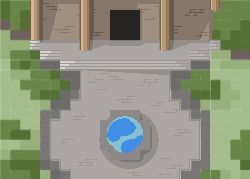
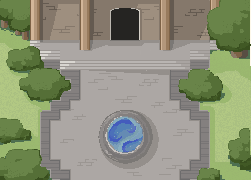
#7 #5

diff --git a/greekIntellij/src/main/java/Room.java b/greekIntellij/src/main/java/Room.java
@@ -2,6 +2,7 @@ import java.util.ArrayList;
 import processing.core.PImage;
 import processing.core.PApplet;
 
+
 import static processing.core.PConstants.CORNERS;
 
 public class Room {
@@ -12,25 +13,105 @@ public class Room {
     String id;
 
     //List of spaces in the room
-    ArrayList<Space> spaces;
+    ArrayList<Space> spaces = new ArrayList<Space>();
 
     //Background image of the room
     PImage background;
+    PImage tileMap;
 
-    public Room(String id, String ImageURL, PApplet core){
+    int widthInTiles = 27;
+    int heightInTiles = 20;
+
+
+    public Room(String id, String ImageURL,String tileMapURL, PApplet core){
         this.id = id;
         this.core = core;
+        setTileMap(tileMapURL);
         setBackground(ImageURL);
+        fillSpaces();
     }
 
     public void setBackground(String ImageURL){
         this.background = core.loadImage("Images/Backgrounds/"+ImageURL);
     }
+    public void setTileMap(String tileMapURL){this.tileMap =core.loadImage("Images/TileMaps/"+tileMapURL);}
 
     public void drawRoom(){
         core.imageMode(CORNERS);
         core.image(background,0,0,core.width,core.height);
+
     }
+
+
+
+    public void fillSpaces(){
+        int black = -16777216;
+        int red = -65536;
+        int white = -1;
+        int blue = -16776961;
+
+
+        for (int i=0; i<widthInTiles*heightInTiles; i++){
+            int c =tileMap.get(xFromId(i),yFromId(i));
+
+
+            System.out.println(c);
+
+            if(c == black) {
+                spaces.add(new Space(spaces.size(), true, false));
+            }
+            else {
+                spaces.add(new Space(spaces.size(), false, false));
+
+            }
+        }
+        evalSpaces();
+    }
+
+    public void evalSpaces(){
+        for (int i=0; i<widthInTiles*heightInTiles; i++){
+            System.out.println(spaces.get(i).getSolid());
+        }
+    }
+
+
+
+
+
+    public int xFromId(int id){
+        return id%widthInTiles;
+    }
+
+    public int yFromId(float id){
+        return core.floor(id/widthInTiles);
+    }
+
+    public int coordToId(int x, int y){
+        return (y+1)*widthInTiles+(x+1);
+    }
+
+    public boolean SpaceUpSolid(int x, int y){
+        int tile = coordToId(x,y)-widthInTiles;
+        return spaces.get(tile).getSolid();
+    }
+
+    public boolean SpaceDownSolid(int x, int y){
+        int tile = coordToId(x,y)+widthInTiles;
+        return spaces.get(tile).getSolid();
+
+    }
+
+    public boolean SpaceLeftSolid(int x, int y){
+        int tile = coordToId(x,y)-1;
+        return spaces.get(tile).getSolid();
+    }
+
+    public boolean SpaceRightSolid(int x, int y){
+        int tile = coordToId(x,y)+1;
+        return spaces.get(tile).getSolid();
+    }
+
+
 
 }
 

diff --git a/greekIntellij/src/main/java/Player.java b/greekIntellij/src/main/java/Player.java
@@ -19,9 +19,9 @@ public class Player {
     PImage sprite;
     Main main;
 
-    public Player(int x,int y,String spritePath, PApplet core, Main main){
-        this.x = x;
-        this.y = y;
+    public Player(float x,float y,String spritePath, PApplet core, Main main){
+        this.x =  x;
+        this.y =  y;
         this.core = core;
         setSprite(spritePath);
         this.main = main;
@@ -29,16 +29,17 @@ public class Player {
     }
 
     public void movement(){
-        if(moveUp){
+        if(y>0 &&moveUp&&!main.r1.SpaceUpSolid((int) x, (int) y)){
+
             y--;
         }
-        if(moveDown){
+        if(y<28 && moveDown&&!main.r1.SpaceDownSolid((int) x, (int) y)){
             y++;
         }
-        if(moveLeft){
+        if(moveLeft && !main.r1.SpaceLeftSolid((int) x, (int) y)){
             x--;
         }
-        if(moveRight){
+        if(moveRight && !main.r1.SpaceRightSolid((int) x, (int) y)){
             x++;
         }
     }
@@ -49,8 +50,8 @@ public class Player {
     public void drawPlayer(){
         movement();
         core.imageMode(CORNERS);
-        core.image(sprite,x*(core.width/25),y*(core.height/18),x*(core.width/25)+(core.width/25),y*(core.height/18)+(core.height/9));
-        //System.out.println(x+" "+y);
+        core.image(sprite,x*(core.width/25),(y+1)*(core.height/18),x*(core.width/25)+(core.width/25),((y+1)*(core.height/18))-(core.height/9));
+        System.out.println(x+" "+y);
     }
 
 }

diff --git a/greekIntellij/src/main/java/Main.java b/greekIntellij/src/main/java/Main.java
@@ -23,14 +23,15 @@ public class Main extends PApplet {
     }
 
     public void settings(){
-        size(625,450);
+        size(625*3,450*3);
+
 
 
     }
 
     public void setup(){
-
-        r1 = new Room("1","g5.png",this);
+        //frameRate(20);
+        r1 = new Room("1","g5.png","g5.png",this);
         p1 = new Player(10,10,"Player1.png",this,this);
         q1 = new Quiz(1,this,this);
 
@@ -82,11 +83,16 @@ public class Main extends PApplet {
     }
 
     public void loadRooms(){
-        File folder = new File("Images/Backgrounds");
-        File[] listOfFiles = folder.listFiles();
-        assert listOfFiles != null;
-        for(int i = 0; i<listOfFiles.length; i++){
-            allRooms.add(new Room("r"+i,listOfFiles[i].getName(),this));
+        File backgroundFolder = new File("Images/Backgrounds");
+        File[] listOfBackgrounds = backgroundFolder.listFiles();
+
+        File tileMapFolder = new File("Images/Backgrounds");
+        File[] listOfTilemaps = backgroundFolder.listFiles();
+
+        assert listOfTilemaps != null;
+        assert listOfBackgrounds != null;
+        for(int i = 0; i<listOfBackgrounds.length; i++){
+            allRooms.add(new Room("r"+i,listOfBackgrounds[i].getName(),listOfTilemaps[i].getName(),this));
         }
 
     }

diff --git a/greekIntellij/src/main/java/Space.java b/greekIntellij/src/main/java/Space.java
@@ -1,11 +1,26 @@
+import processing.core.PApplet;
 
 public class Space {
+    PApplet core;
     int id;
-    int x;
-    int y;
+
     //Obstacle obs;
     boolean solid;
     boolean interactable;
+
+
+    public Space(int id, boolean solid, boolean interactable){
+        this.id = id;
+
+        this.solid=solid;
+        this.interactable=interactable;
+
+    }
+
+
+    public boolean getSolid(){
+        return solid;
+    }
 
 
 
